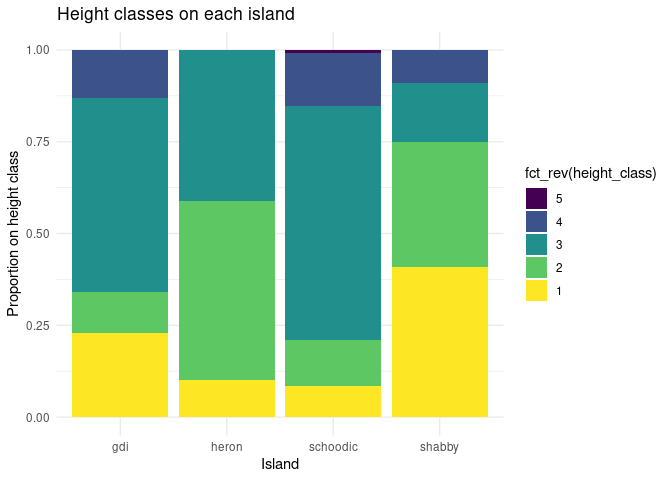
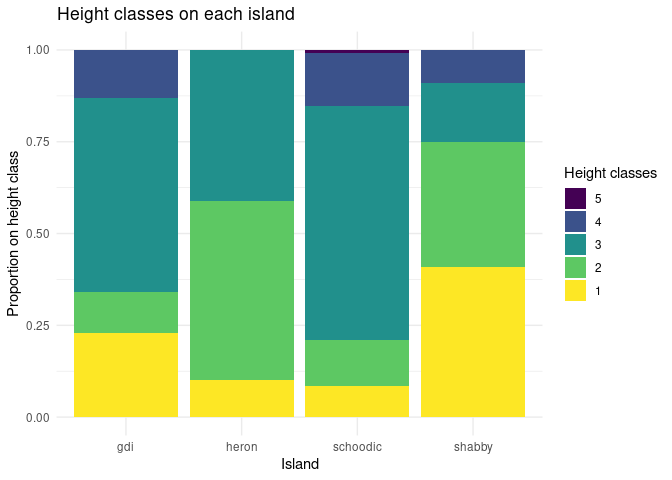
Load mapping packages

diff --git a/Analysis/analysis.md b/Analysis/analysis.md
@@ -5,6 +5,13 @@ Ellie and Finn
 ``` r
 library(tidyverse)
 library(broom)
+library(leaflet) ## For leaflet interactive maps
+library(sf) ## For spatial data
+library(RColorBrewer) ## For colour palettes
+library(htmltools) ## For html
+library(leafsync) ## For placing plots side by side
+library(stringr) ## For character string manipulation
+library(kableExtra) ## Table  output (in slides)
 ```
 
     ## Rows: 339 Columns: 10
@@ -34,7 +41,7 @@ island_veg %>%
   facet_wrap(~location, nrow = 1) +
   theme_minimal() +
   labs(title = "Species disribution by island",
-       x = "Number of individuals",
+       x = "Number of occurences",
        y = "Common names")
 ```
 
@@ -48,7 +55,8 @@ island_veg %>%
   scale_fill_viridis_d() +
   labs(title = "Height classes on each island",
        x = "Island",
-       y = "Proportion on height class") +
+       y = "Proportion on height class",
+       fill = "Height classes") +
   theme_minimal()
 ```
 
